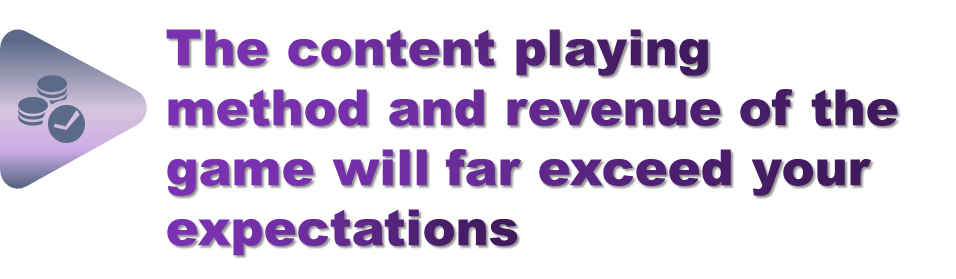
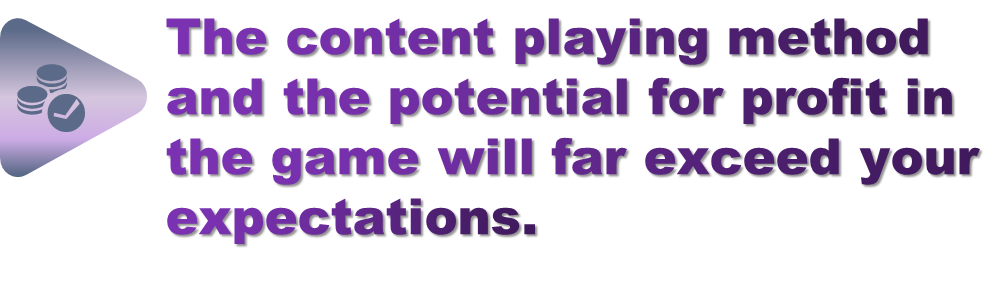
GitBook: [#8] new

diff --git a/README.md b/README.md
@@ -3,21 +3,15 @@ cover: .gitbook/assets/image (18).png
 coverY: 0
 ---
 
-# introduction
+# Market overview
 
-* Era7:game of truth is a TCG playing metaverse game developed based on binance smart chain (BSC), which is created by a team jointly established by the core technicians of blockchain and members of wellknown casual game development company.&#x20;
-* A serious and serious trading card game, a groundbreaking new playing method, the perfect combination of the cheerfulness of fighting and the strategy of thinking, and a cheery competitive card game of one game in three minutes
-* Players can combine the cards in their own card library in different forms to create their own strongest cards. They can play PVE or PVE by deploying and placing cards. Different cards have different effects. From primary cards to advanced cards and advanced cards, players wait for players to collect. Players need to pay attention to the opponent's spell effect and arms restraint relationship all the time, and skillfully use their heroes to ride thousands on the battlefield.
-* Of course, in addition to the fun of the game, each card of the player has its own value. Players can obtain highvalue cards for sale by collecting, fighting, trading summoning or synthesizing output. This is also one of the biggest charms of gamefi compared with traditional games. Era7 will continuously update the game content, Add new cards, playing methods and battle pass to meet the continuous needs of players and generate revenue.
-* Early players entering Era7 will enjoy ecological dividends. WE have a reward mechanism of invitation and sharing. Era7 provides a variety of profit models for individuals and organizations with strong market ability to meet the needs of different market participants.
-
-![](<.gitbook/assets/image (1) (1).png>)
-
-* Era7:game of truth is a trading card game metaverse. Different from ordinary games, Era7 adds NFT elements and defi functions to the blockchain, transforming it into regional NFT gamefi, that is, the concept of "NFT + Game + Defi". The cards in Era7 metaverse not only have the collection and appreciation value of NFT, but also have the playability of the game. At the same time, players can also earn income through games. Era7 establishes an immersive game experience and a complete closedloop economic system in metaverse.
-* Traditional games are connected with gamefi, which is the biggest highlight of the game. We have millions of Southeast Asian E-sports users, which can develop into seed users of Era7.
-* The art of the game is a global style, which can be accepted by players all over the world
-* High game quality
-* The design of competitive system is clear and reasonable
-
-![](<.gitbook/assets/image (3) (1).png>)
+* 2021 marks the first year for the explosion of GameFi and its accompanying metaverse. GameFi is effectively DeFi, but ‘gamefied’; it introduces gaming elements to make it more accessible for ordinary people and often incorporates NFT tokens into the gameplay to enable users to make money in real life. By introducing financial attributes, the user quickly realises that they’re able to mine tokens through gameplay with a play-to-earn ideology at the forefront of their experience. Equally, their funds can be converted into equipment or props which hold investment value. GameFi’s model has successfully attracted the attention of the gaming industry and the blockchain circle alike, and as a result, has become a Horcrux of public discussion.
+* DeFi: the first boom was experienced in July of 2020, followed by a peak of activity in March of 2021. It was then that the concept became accepted by traditional technological and financial businesses.&#x20;
+* &#x20;NFTs: March of 2021 ushered in the first burst of popularity, while August 2021 marked the start of the boom period. NFTs are now recognised throughout the entire art world.
+* Gamefi: the market is booming and the activity peak has arrived.
+* The global gaming market is continuing to expand, while the industry remains in a superb situation. According to statistics from Newzoo, the scale of the global gaming market has increased from 70.6 billion USD in 2020, to 177.8 billion in 2021, with a CAGR of 12.2%. Moreover, it’s expected to exceed 200 billion USD by the end of 2023. Furthermore, the proportion of mobile games in the market has risen from 12% in 2012 to 49% in 2020 and is expected to reach 52% before the end of 2021. The global gaming market will continue to grow thereafter. These statistics demonstrate that the overall development trend of the industry is good, and there’s plenty of room for growth.
+* In 2020, 72 million USD had been invested in blockchain games, and as of July 30, 2021, that number has exceeded one billion.
+* The metaverse is a virtual world built on the blockchain. It’s a decentralized platform that allows users to enjoy ownership and autonomy without the catch. The immersive experience brings the virtual world closer to reality, with users being able to shuttle freely between the physical world and the digital world anytime, anywhere. They’ll also be able to conduct actions that have a positive impact on their real-life financial situation, with investment and trading featuring as an integral part of the system.
+* The metaverse is the internet’s very own development vision and has become a reasonable direction for the development and exploration of the gaming industry. It focuses on the long-term development of digital infrastructure, terminal equipment, game content and the technology of virtual currencies. The metaverse is expected to bring a new level of entertainment, more social modes, and the ability to work collaboratively to the table. Not to mention, it will give individuals access to a source of income and investment. A blockchain game is the best way to present the Metaverse and will continue to make social breakthroughs and evolutions via concepts such as open worlds, UGC and virtual currencies.
+* From basic ecosystems to advanced applications, the metaverse and Gamefi are crashing into the world like huge boulders ready to be mined for their resources. From the current industry perspective, we’re not just looking at encrypted art, but the rapid development of NFTs and the start of a next-generation gaming craze. Differing from the familiar kind of blockchain games that originated a few years ago, the diversity of gameplay and the innovation of game mechanics provide even more possibilities and a huge amount of power to the gaming industry. Models such as P2E (pay-to-earn) and NFTs have accelerated the popularity of the metaverse and Gamefi concepts, and have also broken down the barriers of previous blockchain projects.
 

diff --git a/gameoftruth/an-introduction-to-era7.md b/gameoftruth/an-introduction-to-era7.md
@@ -5,23 +5,25 @@ coverY: 0
 
 # An introduction to Era7
 
-* Era7:game of truth is a TCG playing metaverse game developed based on binance smart chain (BSC), which is created by a team jointly established by the core technicians of blockchain and members of wellknown casual game development company.&#x20;
-* A serious and serious trading card game, a groundbreaking new playing method, the perfect combination of the cheerfulness of fighting and the strategy of thinking, and a cheery competitive card game of one game in three minutes
-* Players can combine the cards in their own card library in different forms to create their own strongest cards. They can play PVE or PVE by deploying and placing cards. Different cards have different effects. From primary cards toadvanced cards and advanced cards, players wait for players to collect. Players need to pay attention to the opponent's spell effect and arms restraint relationship all the time, and skillfully use their heroes to ride thousands on the battlefield.
+* Era7: Game of Truth is a metaverse-style TCG, developed on the Binance Smart Chain (BSC), which has been created by a team of core blockchain technicians and members of well-known casual game development companies.
+* &#x20;This is an addictive yet state-of-the-art card-trading game that uses a groundbreaking new gaming method. With the perfect combination of fighting and strategy, this game becomes thrillingly immersive and is split up into separate three-minute games.
+* Players can combine the cards in their own card library in different ways to ensure that their deck is as strong as possible. They can play either PVE or PVP by deploying and placing cards. Different cards have different effects, and whether we’re talking about Common or Legendary cards, players will be keen to collect them all. Players will be tasked not only to watch their own deck but also to carefully observe the movements and positioning of their opponents. This provides the player with an incentive to practice and develop their in-game skills over time while receiving fantastic brain training akin to that received by chess players. Only, this training is manifested in skillfully using heroes to ride thousands out to the battlefield.
 
-![](<../.gitbook/assets/image (10).png>)
+![](<../.gitbook/assets/image (3).png>)
 
-* Of course, in addition to the fun of the game, each card of the player has its own value. Players can obtain highvalue cards for sale by collecting, fighting, trading summoning or synthesizing output. This is also one of the biggest charms of gamefi compared with traditional games. Era7 will continuously update the game content, Add new cards, playing methods and battle pass to meet the continuous needs of players and generate revenue.
-* Early players entering Era7 will enjoy ecological dividends. WE have a reward mechanism of invitation and sharing. Era7 provides a variety of profit models for individuals and organizations with strong market ability to meet the needs of different market participants.
+* Of course, in addition to the game being fun, each one of the player’s cards has its own value. Players can obtain high-value cards by collecting, fighting, trading, summoning or synthesizing certain cards. This is also one of the biggest charms of Gamefi when compared with traditional games. Era7 will continuously update the game’s content, adding new cards, playing methods and battle passes to meet the continuous needs of players while generating revenue across the board.&#x20;
+* Early players of Era7 will enjoy dividends from the ecosystem. We have a reward mechanism in place for inviting friends and sharing the game. Era7 provides a whole host of profit models for individuals and organizations from a variety of backgrounds and vertical markets.&#x20;
+* The game’s competitive ecosystem can be used by players who wish to place bets
+* Era7 establishes an immersive gaming experience and a complete closed-loop economic system inside its metaverse.
 
-![](<../.gitbook/assets/image (2).png>)               ![](<../.gitbook/assets/image (28).png>)
+![](<../.gitbook/assets/image (27).png>)
 
-![](<../.gitbook/assets/image (1).png>)                    ![](<../.gitbook/assets/image (13).png>)
-
-* Era7:game of truth is a trading card game metaverse. Different from ordinary games, Era7 adds NFT elements and defi functions to the blockchain, transforming it into regional NFT gamefi, that is, the concept of "NFT + Game + Defi". The cards in Era7 metaverse not only have the collection and appreciation value of NFT, but also have the playability of the game. At the same time, players can also earn income through games. Era7 establishes an immersive game experience and a complete closedloop economic system in metaverse.
-* Traditional games are connected with gamefi, which is the biggest highlight of the game. We have millions of Southeast Asian E-sports users, which can develop into seed users of Era7.
-* The art of the game is a global style, which can be accepted by players all over the world
-* High game quality
-* The design of competitive system is clear and reasonable
+* Era7: Game of Truth is a metaverse-style TCG. Different from ordinary games, Era7 combines NFTs, DeFi and the blockchain, transforming it into an international NFT-based Gamefi experience. This really fleshes out the concept of ‘NFT + Gamification + DeFi’. The cards in the Era7 metaverse not only manifest as NFTs, so collect and appreciate in value on the blockchain, but also feature a range of playability within the game itself.&#x20;
+* Era7 establishes an immersive gaming experience with a complete, closed-loop economic ecosystem on which players can earn real money and cash out as and when they choose. Because of this, we have millions of E-sports users around the world, ready, waiting and excited for the launch of the game.
+* The art of the game has been adapted to suit players of every nationality around the world;
+* The game’s quality is impeccable and state-of-the-art;
+* The design of the competitive system is clear and reasonable.
 
 ![](<../.gitbook/assets/image (15).png>)
+
+![](<../.gitbook/assets/image (7).png>)

diff --git a/gameoftruth/game-play/README.md b/gameoftruth/game-play/README.md
@@ -5,15 +5,18 @@ coverY: 0
 
 # Game Play
 
-* An NFT trading card game inspired by Heartstone and Magic: the Gathering. Standing on the shoulders of Titan, it is a groundbreaking new gameplay. It is the only mild competitive game in the world with a three-minute game.
-*
-* Era7cards are divided into battle cards, and master cards for summoning. Various cards of various races increase the richness and playability of the game. Seven forces, as many as 1,000 cards, give Era7 unlimited imagination and value.
-* Era7 has a huge card system. The number of battle cards will reach 1000. The numerical system in the game is very balanced and the logic of play design is clear, which makes the battles in the era7 game more rich and diverse, fair and competitive. The playability of the game is also greatly enhanced. In addition, the fast battle of one game in three minutes, Let players form their own unique lineup through strategies. No matter what the player's level, they can have fun and money in E-sports.
+
+
+* We’re offering an NFT trading-card game inspired by Hearthstone and Magic: The Gathering. Standing on the shoulders of a Titan, there’s groundbreaking new gameplay to be had. Moreover, whilst this is a highly-competitive game, it is relatively stress-free and requires very little commitment, with games lasting just 3 minutes each.
+* Era7’s cards are divided into battle cards and master cards for summoning. Various cards from various races increase the richness and playability of the game tenfold. Seven forces, with as many as 1,000 cards, give Era7 unlimited reach, territory in which to expand and incredible value as a game.
+* It is this huge card system that shall give the game a fantastic variety – there will always be new heights for players to reach, and as a result, the chance of player burnout is zero.
+* Moreover, the numerical system in the game is very balanced and the logic of the game’s design is very clear, which makes Era7’s battles rich and diverse while fair and competitive.
+* With each battle lasting only three minutes, players are forced to think on their feet to form their own unique lineups through intensive strategic planning. No matter what the player's level is, they can have fun. Furthermore, for those that like to take risks, E-sports is a promising faculty that the game will provide as standard.
 
 ![](../../.gitbook/assets/image.png)
 
-{% content-ref url="../an-introduction-to-era7.md" %}
-[an-introduction-to-era7.md](../an-introduction-to-era7.md)
+{% content-ref url="broken-reference" %}
+[Broken link](broken-reference)
 {% endcontent-ref %}
 
 {% content-ref url="aboutfight.md" %}

diff --git a/gameoftruth/the-games-background.md b/gameoftruth/the-games-background.md
@@ -1,0 +1,12 @@
+---
+cover: ../.gitbook/assets/image (18).png
+coverY: 0
+---
+
+# The Game’s Background
+
+* Era7: Game of Truth is a virtual world, built on Web3.0, that runs parallel to the real one. Functioning as a vast and traversable online world with monetary assets, social methods and complete spatial perception and physical rules, it’s not only independent of the real world, but complementary to it.&#x20;
+* Era7 is a playable NFT card game, allowing players to experience the happiness and economic value enabled by GameFi with a very low threshold of entry.
+* Era7's artistic inspiration comes from TCGs like Hearthstone and Magic: The Gathering.
+* The Game of Truth plot revolves around seven races on the Continent of Truth who compete for the title of "King of Truth." Amongst the races are groups of specially gifted individuals who are sent to attend Summoner Academy to undergo rigorous training where they graduate to become Summoners. Upon graduation, they travel the world to make Summoning Pacts with the most powerful amongst the seven races, to establish strong allies in order to consolidate their power.
+* Since ancient times, throughout the year, battles amongst the Summoners have been held in the heart of the Continent. These Summoning Battles attract Summoners from all over the world who battle for the "King of Truth" title. The winner is crowned King of the Continent, and he and his race are awarded the highest honors in the land.&#x20;

diff --git a/SUMMARY.md b/SUMMARY.md
@@ -2,11 +2,11 @@
 
 ## GameOfTruth
 
-* [introduction](README.md)
-* [BackGround Of The Game](gameoftruth/background-of-the-game.md)
+* [Market overview](README.md)
+* [The Game’s Background](gameoftruth/the-games-background.md)
 * [An introduction to Era7](gameoftruth/an-introduction-to-era7.md)
 * [Game Play](gameoftruth/game-play/README.md)
-  * [An introduction to Era7cards](gameoftruth/game-play/an-introduction-to-era7cards.md)
+  * [An introduction to Era7’s cards](gameoftruth/game-play/an-introduction-to-era7s-cards.md)
   * [AboutFight](gameoftruth/game-play/aboutfight.md)
   * [Summoning](gameoftruth/game-play/summoning.md)
   * [Synthesizing](gameoftruth/game-play/synthesizing.md)
@@ -15,8 +15,8 @@
 * [Token economy](gameoftruth/token-economy.md)
 * [Roadmap](gameoftruth/roadmap.md)
 
-## AboutOurs
+## About us
 
-* [Market status](aboutours/market-status.md)
-* [Team Member](aboutours/team-member.md)
-* [Legal statement](aboutours/legal-statement.md)
+* [Market status](about-us/market-status.md)
+* [Team Member](about-us/team-member.md)
+* [Legal statement](about-us/legal-statement.md)

diff --git a/gameoftruth/game-play/aboutfight.md b/gameoftruth/game-play/aboutfight.md
@@ -18,11 +18,11 @@ coverY: 0
 
 &#x20;
 
-![](<../../.gitbook/assets/image (27).png>)
+![](<../../.gitbook/assets/image (27) (1).png>)
 
 * The PVE of Era7 includes at least 50 levels, 8 campaigns, more than 3000 stages, a variety of challenges.We will continue to update PVE levels in subsequent versions of the game.
 
-![](<../../.gitbook/assets/image (7).png>)
+![](<../../.gitbook/assets/image (7) (1).png>)
 
 ## PVP Player\&Player
 

diff --git a/gameoftruth/game-play/inheritance.md b/gameoftruth/game-play/inheritance.md
@@ -9,4 +9,4 @@ coverY: 0
 * For example, the attack power, defense power, HP of battle cards and the special effects of different biological cards.
 * The quality (common, rare, epic or legend) of the Battle Card summoned by the master card and the inheritance master card will also have random differences in each attribute.
 
-![](<../../.gitbook/assets/image (26).png>)
+![](<../../.gitbook/assets/image (26) (1).png>)

diff --git a/gameoftruth/token-economy.md b/gameoftruth/token-economy.md
@@ -40,7 +40,7 @@ The total amount of Era tokens is 1billion.It is a token built by Era7 Metaverse
 
 ![](<../.gitbook/assets/image (14).png>)
 
-![](<../.gitbook/assets/image (3).png>)
+![](<../.gitbook/assets/image (3) (1).png>)
 
 * Development 15%&#x20;
 * Development 15%&#x20;

diff --git a/gameoftruth/game-play/an-introduction-to-era7s-cards.md b/gameoftruth/game-play/an-introduction-to-era7s-cards.md
@@ -1,0 +1,7 @@
+---
+cover: ../../.gitbook/assets/image (18).png
+coverY: 0
+---
+
+# An introduction to Era7’s cards
+
